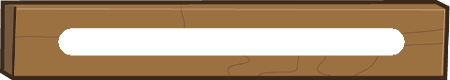
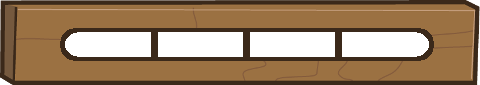
Fixed power up bar positioning and resizing

Changed region(s): [[0.1244, 0.325, 0.9022, 0.725]]

diff --git a/AnimalDash/src/com/lucianosimo/animaldash/scene/GameScene.java b/AnimalDash/src/com/lucianosimo/animaldash/scene/GameScene.java
@@ -19,7 +19,6 @@ import org.andengine.extension.physics.box2d.PhysicsWorld;
 import org.andengine.extension.physics.box2d.util.constants.PhysicsConstants;
 import org.andengine.input.touch.TouchEvent;
 import org.andengine.opengl.texture.region.ITextureRegion;
-import org.andengine.util.adt.color.Color;
 import org.andengine.util.modifier.IModifier;
 
 import com.badlogic.gdx.math.Vector2;
@@ -57,7 +56,7 @@ public class GameScene extends BaseScene implements IOnSceneTouchListener {
 	private Sprite game_hud_small_player;
 	private Sprite game_hud_big_player;
 	
-	private final static int HUD_POWERUP_EMPTY_BACKGROUND_WIDTH = 350;
+	private final static int HUD_POWERUP_EMPTY_BACKGROUND_WIDTH = 365;
 	private final static int HUD_POWERUP_EMPTY_BACKGROUND_HEIGHT = 75;
 	
 	//Constants	
@@ -75,13 +74,19 @@ public class GameScene extends BaseScene implements IOnSceneTouchListener {
 	//Fruits
 	private Sprite[] fruits;
 	private int fruitsCounter;
+	private DelayModifier powerUpBarDecreaseModifier;
+	private boolean decreasingPowerUpBar;
+	//private float increaseBarCounter = 0;
+	//private IUpdateHandler increaseBarUpdateHandler;
+	
 	private final static int FRUITS_INITIAL_X = 2000;
 	private final static int FRUITS_BETWEEN_DISTANCE = 2000;
 	private final static int FRUITS_CENTER_SCREEN_OFFSET_Y = 350;
 	private final static int FRUITS_QUANTITY = 4;
 	
 	private final static int POWER_UP_REQUIRED_FRUITS = 4;
-	private final static int POWER_UP_DURATION = 15;
+	private final static float POWER_UP_DURATION = 15;
+	//private final static int POWER_UP_BAR_INCREASE_DURATION = 1;
 	
 	private Platform[] platforms;
 	
@@ -221,6 +226,8 @@ public class GameScene extends BaseScene implements IOnSceneTouchListener {
 	}
 	
 	private void createPlayer() {
+		decreasingPowerUpBar = false;
+		
 		player = new Player(screenWidth/2, screenHeight/2 + 200, vbom, camera, physicsWorld) {
 			@Override
 			protected void onManagedUpdate(float pSecondsElapsed) {
@@ -236,6 +243,34 @@ public class GameScene extends BaseScene implements IOnSceneTouchListener {
 					}
 					
 				}
+				
+				if (player.isPlayerInPowerUpMode() && !decreasingPowerUpBar) {
+					decreasingPowerUpBar = true;
+					
+					powerUpBarDecreaseModifier = new DelayModifier(POWER_UP_DURATION / POWER_UP_REQUIRED_FRUITS , new IEntityModifierListener() {
+						
+						@Override
+						public void onModifierStarted(IModifier<IEntity> pModifier, IEntity pItem) {
+							
+						}
+						
+						public void onModifierFinished(org.andengine.util.modifier.IModifier<IEntity> pModifier, IEntity pItem) {
+							fruitsCounter--;
+							resizePowerUpBar();
+							decreasingPowerUpBar = false;
+							
+							if (fruitsCounter > 0) {
+								player.registerEntityModifier(powerUpBarDecreaseModifier);
+							}
+						};
+					});
+					
+					if (fruitsCounter > 0) {
+						player.registerEntityModifier(powerUpBarDecreaseModifier);
+					}
+					
+				}
+				
 			}
 			@Override
 			public void onDie() {
@@ -516,11 +551,13 @@ public class GameScene extends BaseScene implements IOnSceneTouchListener {
 					super.onManagedUpdate(pSecondsElapsed);
 					if (player.collidesWith(this)) {
 						this.setX(this.getX() + FRUITS_BETWEEN_DISTANCE * FRUITS_QUANTITY);
-						fruitsCounter++;
-						increasePowerUpBar();
+						
+						if (!player.isPlayerInPowerUpMode()) {
+							fruitsCounter++;
+							resizePowerUpBar();
+						}
 						
 						if (fruitsCounter == POWER_UP_REQUIRED_FRUITS) {
-							
 							player.registerEntityModifier(new DelayModifier(POWER_UP_DURATION, new IEntityModifierListener() {
 								
 								@Override
@@ -542,10 +579,10 @@ public class GameScene extends BaseScene implements IOnSceneTouchListener {
 										enemy3[i].getEnemy3Body().setActive(true);
 										enemy4[i].getEnemy4Body().setActive(true);
 									}
-									fruitsCounter = 0;
 								};
 							}));
 						}
+							
 					}
 				}
 			};
@@ -554,7 +591,42 @@ public class GameScene extends BaseScene implements IOnSceneTouchListener {
 		}
 	}
 	
-	private void increasePowerUpBar() {
+	private void resizePowerUpBar() {
+		/*player.registerEntityModifier(new DelayModifier(POWER_UP_BAR_IMCREASE_DURATION, new IEntityModifierListener() {
+			
+			@Override
+			public void onModifierStarted(IModifier<IEntity> pModifier, IEntity pItem) {
+				increaseBarUpdateHandler = new IUpdateHandler() {
+					 
+					
+					@Override
+					public void reset() {
+						
+					}
+					
+					@Override
+					public void onUpdate(float pSecondsElapsed) {
+						//increaseBarCounter = increaseBarCounter + 0.0085f;
+						increaseBarCounter = increaseBarCounter + 0.017f;
+						game_hud_powerup_bar.setWidth(HUD_POWERUP_EMPTY_BACKGROUND_WIDTH / POWER_UP_REQUIRED_FRUITS * 1 * increaseBarCounter);
+						game_hud_powerup_bar.setPosition((game_hud_powerup_empty_background.getX() - HUD_POWERUP_EMPTY_BACKGROUND_WIDTH / 2) + game_hud_powerup_bar.getWidth() / 2, 
+								game_hud_powerup_bar.getY());
+						
+					}
+				};
+				
+				engine.registerUpdateHandler(increaseBarUpdateHandler);
+			}
+			
+			@Override
+			public void onModifierFinished(IModifier<IEntity> pModifier, IEntity pItem) {				
+				game_hud_powerup_bar.setWidth(HUD_POWERUP_EMPTY_BACKGROUND_WIDTH / POWER_UP_REQUIRED_FRUITS * fruitsCounter);
+				game_hud_powerup_bar.setPosition((game_hud_powerup_empty_background.getX() - HUD_POWERUP_EMPTY_BACKGROUND_WIDTH / 2) + game_hud_powerup_bar.getWidth() / 2, 
+						game_hud_powerup_bar.getY());
+				//increaseBarCounter = 0;
+				engine.unregisterUpdateHandler(increaseBarUpdateHandler);
+			}
+		}));*/
 		game_hud_powerup_bar.setWidth(HUD_POWERUP_EMPTY_BACKGROUND_WIDTH / POWER_UP_REQUIRED_FRUITS * fruitsCounter);
 		game_hud_powerup_bar.setPosition((game_hud_powerup_empty_background.getX() - HUD_POWERUP_EMPTY_BACKGROUND_WIDTH / 2) + game_hud_powerup_bar.getWidth() / 2, 
 				game_hud_powerup_bar.getY());
